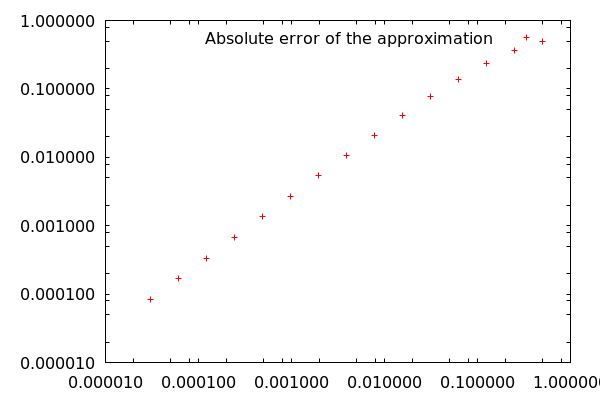
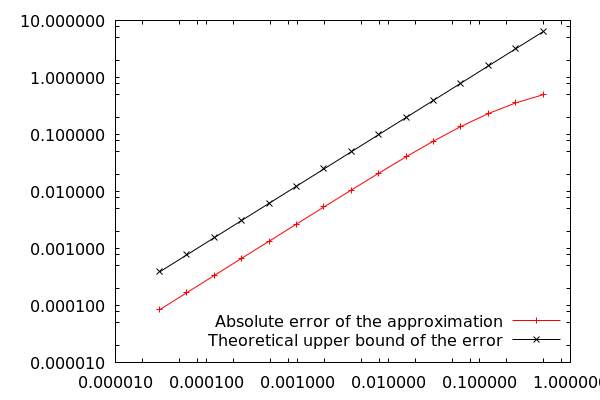
Added upper error bound visualization to task 2 subtask 6

diff --git a/examples/task02_6.rs b/examples/task02_6.rs
@@ -1,8 +1,10 @@
+use gnuplot::Coordinate::Graph;
 use gnuplot::PlotOption::{Caption, Color};
 use gnuplot::{AxesCommon, Figure};
 use ngdl_rust::definitions::InitialValueProblem;
 use ngdl_rust::euler_explicit::explicit_euler_test_run;
 use std::error::Error;
+use std::f64::consts::E;
 use std::fs::create_dir_all;
 use std::ops::Add;
 
@@ -25,6 +27,10 @@ fn main() -> Result<(), Box<dyn Error>> {
 
     let abs_errors: Vec<f64> = approximations.iter().map(|x| (exact - *x).abs()).collect();
 
+    // This comes from the formula on task 6.
+    // |f| = 2 and |f'| = 4 on the interval.
+    let error_bounds: Vec<f64> = hs.iter().map(|h| 2.0 * (E.powi(2) - 1.0) * *h).collect();
+
     hs.iter()
         .zip(ks)
         .map(|(h, k)| format!("Absolute error for h=2^{}={}", k, h))
@@ -36,10 +42,19 @@ fn main() -> Result<(), Box<dyn Error>> {
     fg.axes2d()
         .set_y_log(Some(10.0))
         .set_x_log(Some(10.0))
-        .points(
+        .set_legend(Graph(1.0), Graph(0.15), &[], &[])
+        .lines_points(
             &hs,
             &abs_errors,
             &[Caption("Absolute error of the approximation"), Color("red")],
+        )
+        .lines_points(
+            &hs,
+            &error_bounds,
+            &[
+                Caption("Theoretical upper bound of the error"),
+                Color("black"),
+            ],
         );
     fg.save_to_png(&filename, 600, 400)
         .expect("Unable to save file");

diff --git a/README.md b/README.md
@@ -4,6 +4,7 @@
 * Tasks are in the examples folder. You can run one with e.g.
 ``cargo run --example task01``.
 Just replace the task name with the correct filename for the current task.
+* If a computation takes too long, try adding a ``--release`` to ``cargo run``. Speedup of that can easily be several orders of magnitude.
 * Documentation for the code can be generated automatically with ``cargo doc --open``. Hopefully by documenting that possibility I'll actually write documentation comments...
 * Tests are executed with ``cargo test``. At the moment that is only the examples from the documentation, though.
 
